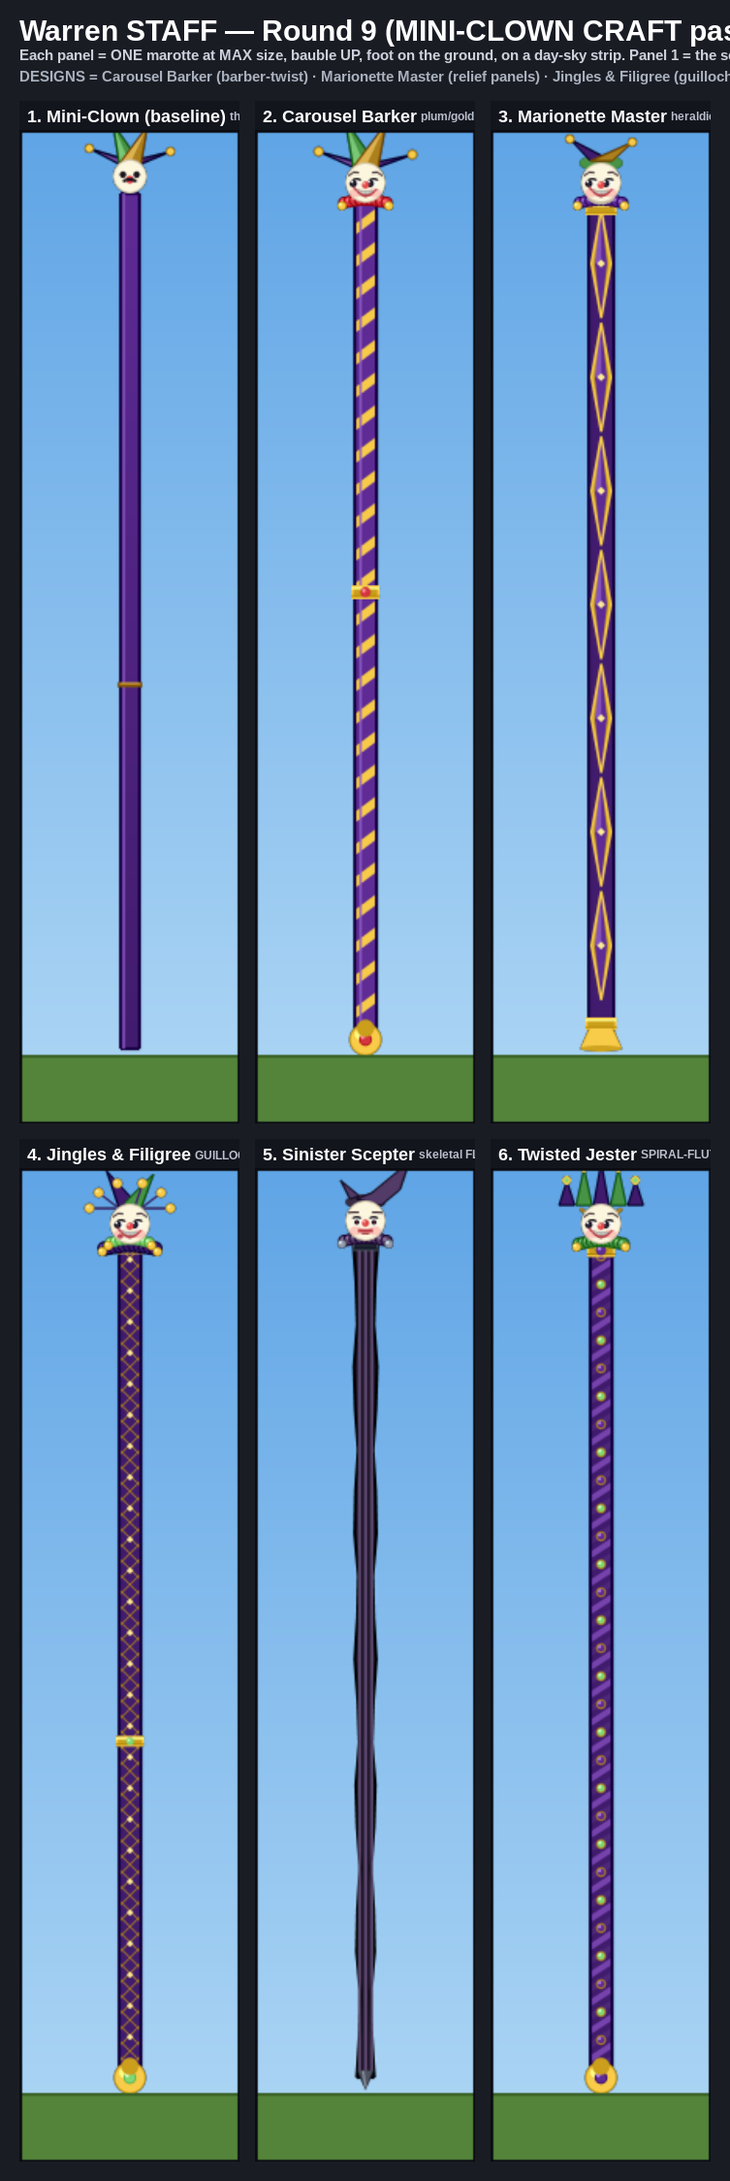
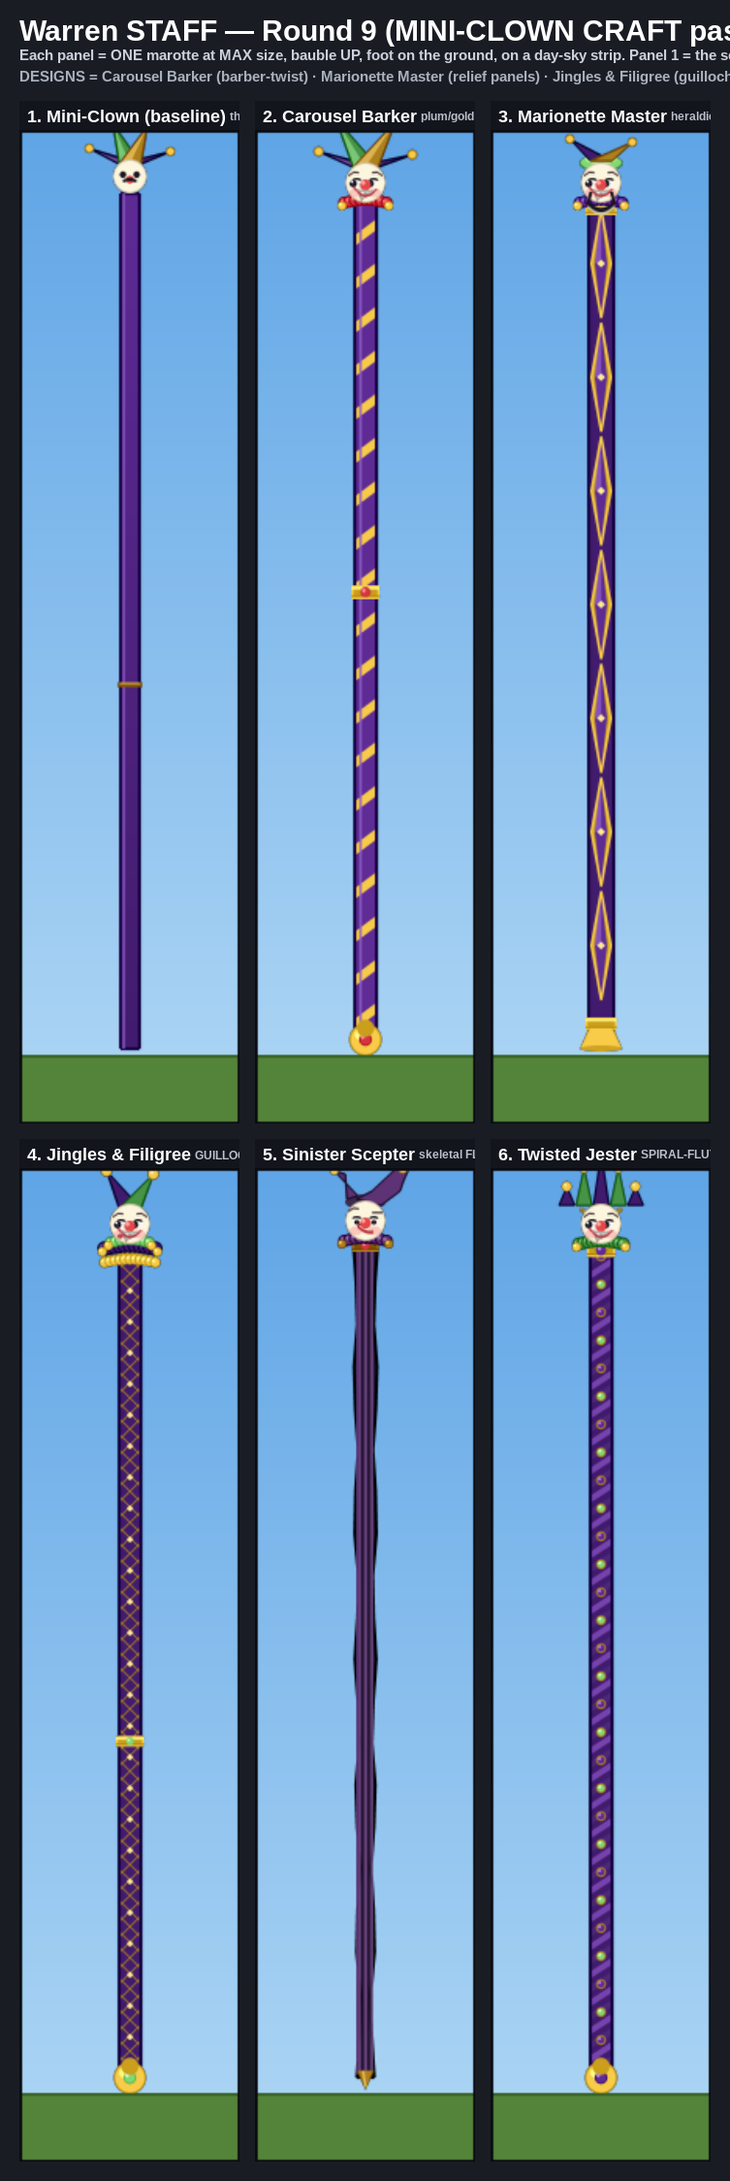
Warren marotte craft pass r2: harden mini-clown faces, fix Sinister + bell spray
Round-2 revisions to the 5 mini-clown staffs (prop_14f-14j) per art-director
critique. Coronet reads as an arc (Twisted Jester lead); nose bumped + fang
re-seated with a dark throat wedge so the clown face survives the ~30px route
shrink; Marionette gets a real second jaw-line + brighter lime crown; Carousel
cap splayed off the forehead; Jingles drops the fuzzy radiating bell halo for a
belled ruff fringe; Sinister re-spec'd onto plum/gold (was off-palette iron)
with a lifted shaft, candy-red collar pop, smirk face, and a legible horned
hood. All 6 bodies stay under the <140 luma gate; tests green.

diff --git a/tools/render_warren_sword.py b/tools/render_warren_sword.py
@@ -2071,7 +2071,11 @@ def _mini_clown_face(surf, cx, hy, hr, ss, *, expr="grin", look=None):
                           int(hy + hr * 0.28)))
     ex = hr * 0.42                         # eye spacing
     ew, eh = 2.0 * u, 2.5 * u              # tall round OPEN eye (alive, not hooded)
-    stare = expr == "stare"
+    # "smirk" shares the dead pinprick eyes with "stare" but carries a sly raised
+    # brow + a one-corner-up closed mouth so it reads as a mischievous clown, not an
+    # empty doll. `dead` drives the eye treatment; the mouth branch splits below.
+    smirk = expr == "smirk"
+    stare = expr == "stare" or smirk
     for s in (-1, 1):
         exx = cx + s * ex
         # White sclera — a tall bright open eye.
@@ -2105,21 +2109,56 @@ def _mini_clown_face(surf, cx, hy, hr, ss, *, expr="grin", look=None):
         inner = (exx - s * 1.0 * u * ss, hy - 5.4 * u * ss)
         mid = (exx + s * 1.8 * u * ss, hy - 5.6 * u * ss)
         outer = (exx + s * 4.6 * u * ss, hy - 3.6 * u * ss)
-        if stare:
+        if stare and not smirk:
             # A flatter, lower brow for the blank-stare so the calm reads colder.
             inner = (exx - s * 1.0 * u * ss, hy - 4.6 * u * ss)
             mid = (exx + s * 1.8 * u * ss, hy - 4.6 * u * ss)
             outer = (exx + s * 4.6 * u * ss, hy - 4.4 * u * ss)
+        elif smirk:
+            # ONE sly raised brow (the die-side / LEFT, s == -1) cocks up high; the
+            # other stays flat + low — a single cocked brow over dead eyes is the
+            # whole "knowing menace-glee" tell of the sinister smirk.
+            if s < 0:
+                inner = (exx - s * 1.0 * u * ss, hy - 6.4 * u * ss)
+                mid = (exx + s * 1.8 * u * ss, hy - 6.8 * u * ss)
+                outer = (exx + s * 4.6 * u * ss, hy - 5.0 * u * ss)
+            else:
+                inner = (exx - s * 1.0 * u * ss, hy - 4.4 * u * ss)
+                mid = (exx + s * 1.8 * u * ss, hy - 4.4 * u * ss)
+                outer = (exx + s * 4.6 * u * ss, hy - 4.4 * u * ss)
         pygame.draw.lines(surf, BROW_COL, False,
                           [(int(inner[0]), int(inner[1])), (int(mid[0]), int(mid[1])),
                            (int(outer[0]), int(outer[1]))], max(1, int(1.3 * ss)))
     # Red ball nose, lifted up between the eyes so the grin owns the lower face.
-    nr = max(2, int(1.9 * u * ss))
+    # Bumped up again so the warm dot is the last face cue to survive at 30px, where
+    # the eyes/brows dissolve and only "warm nose over dark smile" reads — the dot
+    # has to win the silhouette fight against the cap clutter above it.
+    nr = max(3, int(3.0 * u * ss))
     pygame.draw.circle(surf, _shade_c(NOSE_RED, -60), (cx, int(hy + 1.4 * u * ss)), nr + 1)
     pygame.draw.circle(surf, NOSE_RED, (cx, int(hy + 1.4 * u * ss)), nr)
     pygame.draw.circle(surf, _shade_c(NOSE_RED, 100),
                        (int(cx - nr * 0.4), int(hy + 1.4 * u * ss - nr * 0.4)),
                        max(1, int(nr * 0.4)))
+    if smirk:
+        # A closed-mouth SMIRK: a smooth lip curve with the die-side (LEFT) corner
+        # cocked UP and the other corner held low — a sliver of menace-glee so the
+        # dead eyes read as a sly clown, not a vacant doll. A short dimple tick seats
+        # the raised corner so the asymmetry survives shrinking.
+        my = hy + 5.0 * u * ss
+        l_up = (cx - 4.2 * u * ss, my - 1.8 * u * ss)
+        r_lo = (cx + 4.2 * u * ss, my + 1.2 * u * ss)
+        smk = []
+        for k in range(11):
+            t = k / 10.0
+            sx = l_up[0] + (r_lo[0] - l_up[0]) * t
+            sy = l_up[1] + (r_lo[1] - l_up[1]) * t + (1.0 - (2.0 * t - 1.0) ** 2) * 1.2 * u * ss
+            smk.append((int(sx), int(sy)))
+        pygame.draw.lines(surf, LIP, False, smk, max(2, int(2.2 * ss)))
+        pygame.draw.line(surf, _shade_c(LIP, -40),
+                         (int(l_up[0]), int(l_up[1])),
+                         (int(l_up[0] + 1.2 * u * ss), int(l_up[1] - 1.6 * u * ss)),
+                         max(1, int(1.4 * ss)))
+        return
     if stare:
         # A small flat closed line-mouth for the unsettling calm — no toothy grin.
         my = hy + 5.4 * u * ss
@@ -2140,7 +2179,10 @@ def _mini_clown_face(surf, cx, hy, hr, ss, *, expr="grin", look=None):
              (cx + 2.3 * u * ss, my + 0.5 * u * ss), r_corner,
              (cx + 2.7 * u * ss, my + 1.8 * u * ss), bottom,
              (cx - 2.7 * u * ss, my + 1.8 * u * ss)]
-    pygame.draw.polygon(surf, MOUTH_THROAT, [(int(p[0]), int(p[1])) for p in mouth])
+    # Throat darkened one step so the open grin reads as a solid dark smile-band
+    # at route scale (the "dark smile under a warm dot" cue) once the teeth blur.
+    pygame.draw.polygon(surf, _shade_c(MOUTH_THROAT, -34),
+                        [(int(p[0]), int(p[1])) for p in mouth])
     # Bright tooth band across the top of the open grin + tooth separators.
     teeth = [l_corner, (cx - 2.3 * u * ss, my), (cx + 2.3 * u * ss, my), r_corner,
              (cx + 2.3 * u * ss, my + 1.4 * u * ss), (cx - 2.3 * u * ss, my + 1.4 * u * ss)]
@@ -2151,12 +2193,20 @@ def _mini_clown_face(surf, cx, hy, hr, ss, *, expr="grin", look=None):
         gx = cx + k * 1.9 * u * ss
         pygame.draw.line(surf, _shade_c(TEETH, -70), (int(gx), int(my)),
                          (int(gx), int(my + 1.4 * u * ss)), max(1, int(ss)))
-    # One pointed FANG dropping below the tooth row on the die-side (LEFT).
-    fang = [(cx - 2.3 * u * ss, my + 1.4 * u * ss), (cx - 0.4 * u * ss, my + 1.4 * u * ss),
-            (cx - 1.4 * u * ss, my + 3.2 * u * ss)]
+    # One pointed FANG dropping below the tooth row on the die-side (LEFT). It is the
+    # MVP of the "mean" read and the FIRST thing to vanish when shrunk, so it is now
+    # seated HIGH into the tooth band (base up at the tooth-band top) with a wider
+    # base and a longer drop — a fat triangular spike that reads as a single dark-
+    # rimmed tusk even after the tooth separators blur. Drawn against the dark throat
+    # FIRST as a fat throat wedge so the fang silhouette persists, then the bright
+    # tooth fang over it with a heavy keyline.
+    fang = [(cx - 3.4 * u * ss, my), (cx + 0.2 * u * ss, my),
+            (cx - 1.6 * u * ss, my + 4.8 * u * ss)]
+    pygame.draw.polygon(surf, _shade_c(MOUTH_THROAT, -34),
+                        [(int(p[0] - 0.5 * u * ss), int(p[1] + 0.6 * u * ss)) for p in fang])
     pygame.draw.polygon(surf, TEETH, [(int(p[0]), int(p[1])) for p in fang])
     pygame.draw.polygon(surf, _shade_c(TEETH, -70),
-                        [(int(p[0]), int(p[1])) for p in fang], max(1, int(ss)))
+                        [(int(p[0]), int(p[1])) for p in fang], max(2, int(1.6 * ss)))
     # The lip line wrapping the grin — a single smooth up-curving crescent.
     lip = []
     for k in range(13):
@@ -2176,16 +2226,28 @@ def _mini_clown_face(surf, cx, hy, hr, ss, *, expr="grin", look=None):
         pygame.draw.ellipse(surf, _shade_c(TONGUE, -60), tr, max(1, int(ss)))
 
 
-def _marotte_ruff(surf, cx, ny, r, ss, col, *, lobes=9, bell_col=GOLD):
+def _marotte_ruff(surf, cx, ny, r, ss, col, *, lobes=9, bell_col=GOLD, fringe=None):
     """A scalloped ruff under the bauble (the clown's neck collar), ported into
     ss space: a row of overlapping lit lobes ringing the neck with a small bell
     dangling at each outer edge, so the mini-clown reads as a costumed head, not
-    a bare ball. Drawn dark-cored so it holds value on the day sky."""
+    a bare ball. Drawn dark-cored so it holds value on the day sky. `fringe` (a
+    gold) hangs a fat bell off the bottom of each lobe — the jingle density moved
+    to the collar so it can't blur the head silhouette into a halo."""
     for i in range(lobes):
         t = i / (lobes - 1)
         lx = cx - r + 2 * r * t
         ly = ny + 2.0 * ss + math.sin(t * math.pi) * -2.0 * ss
         rad = max(3, int(r * 0.30))
+        if fringe is not None:
+            # A short thread + fat bell hanging off the lobe's lower edge — a tidy
+            # belled fringe along the collar reads as "jingles" at any scale.
+            by = ly + rad + int(4 * ss)
+            pygame.draw.line(surf, _shade_c(fringe, -60), (int(lx), int(ly + rad)),
+                             (int(lx), int(by)), max(2, int(2.0 * ss)))
+            pygame.draw.circle(surf, _shade_c(fringe, -55), (int(lx), int(by)), max(3, int(3.6 * ss)))
+            pygame.draw.circle(surf, fringe, (int(lx), int(by)), max(2, int(2.8 * ss)))
+            pygame.draw.circle(surf, _shade_c(fringe, 80),
+                               (int(lx - ss), int(by - ss)), max(1, int(1.2 * ss)))
         pygame.draw.circle(surf, _shade_c(col, -55), (int(lx), int(ly)), rad)
         pygame.draw.circle(surf, col, (int(lx), int(ly)), max(2, rad - int(ss)))
         pygame.draw.circle(surf, _shade_c(col, 55),
@@ -2231,11 +2293,12 @@ def _shaft_twist(surf, cx, top_y, bot_y, hw, ss, col_a, col_b, lo):
     clip = pygame.Surface(surf.get_size(), pygame.SRCALPHA)
     stripe = max(4, int(7 * ss))
     n = int((bot_y - top_y) / stripe) + 4
-    # A 3-band cycle (plum, plum, gold) so the dark plum dominates the body 2:1
-    # and the gold ribbon stays a bold accent — keeps the route median dark.
+    # A 4-band cycle (plum x3, gold x1) so the dark plum dominates ~3:1 and the gold
+    # ribbon reads as a bold spiral accent — the old 2:1 strobed/flickered at
+    # distance, and the wider plum keeps the route median dark.
     for i in range(-2, n):
         y0 = top_y + i * stripe
-        c = col_b if i % 3 == 2 else col_a
+        c = col_b if i % 4 == 3 else col_a
         quad = [(cx - hw, y0), (cx + hw, y0 - hw * 1.5),
                 (cx + hw, y0 - hw * 1.5 + stripe), (cx - hw, y0 + stripe)]
         pygame.draw.polygon(clip, c, [(int(p[0]), int(p[1])) for p in quad])
@@ -2461,9 +2524,12 @@ def prop_14f(surf, bw, bh, ss):
     _pommel_finial(surf, cx, bh - int(4 * ss), hwid, ss, GOLD, kind="ball", gem=CANDY_RED)
     # The clown's own four-point splayed cap (mirrors cap_four_point): two outer
     # points flop far out + low, two inner points lean apart, each bell-tipped.
+    # Inner points splayed further apart (±19) and lifted so the cap clears the
+    # forehead and stops shadowing the eyes; the two outer points still flop far
+    # out + low.
     base_y = hy - hr + int(1 * ss)
     for (dx, dy, col) in [(-30, -8, PLUM_DK), (30, -6, PLUM_DK),
-                          (-13, -28, LIME_DK), (13, -26, GOLD_DK)]:
+                          (-19, -29, LIME_DK), (19, -27, GOLD_DK)]:
         bxp, byp = cx + int(dx * ss), base_y + int(dy * ss)
         span = int(8 * ss)
         tri = [(cx - span, base_y + int(2 * ss)), (cx + span, base_y + int(2 * ss)), (bxp, byp)]
@@ -2493,11 +2559,17 @@ def prop_14g(surf, bw, bh, ss):
     _ferrule(surf, cx, bh - int(20 * ss), hwid, ss, GOLD, h=8)
     _pommel_finial(surf, cx, bh - int(4 * ss), hwid, ss, GOLD, kind="bell")
     # A close lime hood-cap with two forward-leaning bell points (heraldic, tidy).
+    # Crown lifted one step to LIME so it reads as lime, not olive, where it meets
+    # the dark plum point above it.
     base_y = hy - hr + int(1 * ss)
-    pygame.draw.ellipse(surf, _shade_c(LIME_DK, -10),
-                        (int(cx - hr - ss), int(base_y - 6 * ss), int(hr * 2 + 2 * ss), int(11 * ss)))
     pygame.draw.ellipse(surf, LIME_DK,
+                        (int(cx - hr - ss), int(base_y - 6 * ss), int(hr * 2 + 2 * ss), int(11 * ss)))
+    pygame.draw.ellipse(surf, LIME,
                         (int(cx - hr), int(base_y - 6 * ss), int(hr * 2), int(10 * ss)))
+    # A brighter lit crown band across the cap top so it reads clearly as LIME (not
+    # an olive smudge where LIME_DK met the dark plum point) once shrunk.
+    pygame.draw.ellipse(surf, _shade_c(LIME, 45),
+                        (int(cx - hr * 0.78), int(base_y - 6 * ss), int(hr * 1.56), int(6 * ss)))
     for (dx, dy, col) in [(-20, -16, PLUM_DK), (20, -14, GOLD_DK)]:
         bxp, byp = cx + int(dx * ss), base_y + int(dy * ss)
         span = int(7 * ss)
@@ -2508,11 +2580,26 @@ def prop_14g(surf, bw, bh, ss):
         pygame.draw.circle(surf, GOLD_DK, (int(bxp), int(byp)), max(2, int(3.2 * ss)), max(1, int(ss)))
     _marotte_ruff(surf, cx, hy + hr - int(2 * ss), int(hr * 1.05), ss, PLUM, lobes=9, bell_col=GOLD)
     _mini_clown_face(surf, cx, hy, hr, ss, expr="grin")
-    # The marionette signature: a hinged-jaw line under the grin so the head reads
-    # like a segmented puppet jaw that could clack open.
-    pygame.draw.arc(surf, _shade_c(CREAM, -60),
-                    (int(cx - hr * 0.7), int(hy + hr * 0.3), int(hr * 1.4), int(hr * 0.8)),
-                    math.pi * 1.1, math.tau * 0.95, max(1, int(1.4 * ss)))
+    # The marionette signature: a REAL second jaw-line well below the grin so the
+    # head reads as a segmented puppet jaw that could clack open. Drawn as a deep
+    # INK-dark, fat crescent set a clear gap below the lip — a soft shadow band under
+    # it gives the lower jaw volume so the split survives shrinking instead of
+    # reading as one faint scratch.
+    jy = hy + int(hr * 1.00)
+    jaw, jaw_lo = [], []
+    for k in range(11):
+        t = k / 10.0
+        jx = cx - hr * 0.66 + hr * 1.32 * t
+        dip = (1.0 - (2.0 * t - 1.0) ** 2) * hr * 0.36
+        jaw.append((int(jx), int(jy + dip)))
+        jaw_lo.append((int(jx), int(jy + dip + 2.0 * ss)))
+    pygame.draw.lines(surf, _shade_c(CREAM, -50), False, jaw_lo, max(2, int(2.4 * ss)))
+    pygame.draw.lines(surf, INK, False, jaw, max(3, int(2.8 * ss)))
+    # Two short hinge ticks at the jaw corners reinforce the clack-open puppet read.
+    for s in (-1, 1):
+        hx = cx + s * int(hr * 0.66)
+        pygame.draw.line(surf, INK, (hx, int(jy + hr * 0.06)),
+                         (int(hx - s * 2 * ss), int(hy + hr * 0.46)), max(2, int(2.0 * ss)))
 
 
 # ---- 14h. Jingles & Filigree ------------------------------------------------
@@ -2538,17 +2625,21 @@ def prop_14h(surf, bw, bh, ss):
         tri = [(cx - span, base_y + int(2 * ss)), (cx + span, base_y + int(2 * ss)), (bxp, byp)]
         pygame.draw.polygon(surf, col, tri)
         pygame.draw.polygon(surf, _shade_c(col, -60), tri, max(1, int(1.4 * ss)))
-    # The dangling bell spray — short dark threads, each ending in a lit gold bell.
-    for (ax, ay) in [(-26, 2), (-20, -8), (-8, -14), (8, -14), (20, -8), (26, 2)]:
+    # The radiating crown spray (even 4 bells) collapsed into a fuzzy gold halo that
+    # broke the head silhouette at 30px, so the jingle density is RELOCATED to the
+    # ruff as a fat belled FRINGE (see `bell_fringe` below) — the head stays a clean
+    # round dome and "jingles" now lives at the collar where it can't blur the face.
+    # Just two tight bells sit ON the cap points as the only head-level jingle.
+    for (ax, ay) in [(-15, -22), (15, -20)]:
         ex, ey = cx + int(ax * ss), base_y + int(ay * ss)
-        pygame.draw.line(surf, PLUM_DK, (int(cx + ax * 0.35 * ss), int(base_y + 2 * ss)),
-                         (int(ex), int(ey)), max(1, int(1.4 * ss)))
-        pygame.draw.circle(surf, GOLD_DK, (int(ex), int(ey)), max(2, int(3.4 * ss)))
-        pygame.draw.circle(surf, GOLD, (int(ex), int(ey)), max(2, int(2.8 * ss)))
-        pygame.draw.circle(surf, GOLD_HI, (int(ex - ss), int(ey - ss)), max(1, int(ss)))
+        pygame.draw.circle(surf, GOLD_DK, (int(ex), int(ey)), max(3, int(3.8 * ss)))
+        pygame.draw.circle(surf, GOLD, (int(ex), int(ey)), max(2, int(3.0 * ss)))
+        pygame.draw.circle(surf, GOLD_HI, (int(ex - ss), int(ey - ss)), max(1, int(1.4 * ss)))
     # Layered DOUBLE ruff (a wide outer scallop + a tighter inner one) for the
-    # filigree-rich neck read.
-    _marotte_ruff(surf, cx, hy + hr + int(1 * ss), int(hr * 1.25), ss, PLUM_DK, lobes=11)
+    # filigree-rich neck read; the outer ruff carries the dense belled fringe so the
+    # "jingles" payoff reads at the collar without crowding the head.
+    _marotte_ruff(surf, cx, hy + hr + int(1 * ss), int(hr * 1.25), ss, PLUM_DK,
+                  lobes=11, fringe=GOLD)
     _marotte_ruff(surf, cx, hy + hr - int(3 * ss), int(hr * 0.95), ss, LIME, lobes=9, bell_col=GOLD)
     _mini_clown_face(surf, cx, hy, hr, ss, expr="tongue")
 
@@ -2557,8 +2648,11 @@ def prop_14h(surf, bw, bh, ss):
 # The "MEAN" pole: a SKELETAL fluted near-black shaft pinched into a spine, a
 # blank-stare dead-eyed mini-clown under a drooping single horned hood, an iron
 # ferrule and a downward SPIKE foot. Amusing-but-unsettling.
-SINISTER_LO = (38, 26, 48)
-SINISTER_MD = (84, 60, 104)
+# The sinister body is now on-palette: a deep PLUM_DK shaft (still dark — clears the
+# luma gate) lit on one edge, with GOLD_DK metalwork. "Mean" comes from VALUE +
+# expression, not the old cool blue-grey iron that read cheap and off-palette.
+SINISTER_LO = (44, 24, 58)             # deep plum shaft core (a touch warmer than PLUM_DK)
+SINISTER_MD = (96, 52, 118)            # the lit plum edge / hood face
 
 
 def prop_14i(surf, bw, bh, ss):
@@ -2568,31 +2662,49 @@ def prop_14i(surf, bw, bh, ss):
     shaft_top = hy + hr
     hwid = int(8 * ss)
     _shaft_fluted(surf, cx, shaft_top, bh - int(10 * ss), hwid, ss, SINISTER_MD, SINISTER_LO)
-    _ferrule(surf, cx, shaft_top + int(3 * ss), int(hwid * 0.8), ss, IRON_MD, h=7)
-    _pommel_finial(surf, cx, bh - int(6 * ss), int(hwid * 0.7), ss, IRON_MD, kind="spike")
-    # A single drooping horned hood — one long forward-flopping point + a small
-    # back nub, in cold plum, so the silhouette leans sinister, not jolly.
+    # A visible lit plum rail down one side so the near-black shaft no longer reads
+    # as an indistinct dark stick at route scale — it catches a clear edge of light.
+    pygame.draw.line(surf, SINISTER_MD, (int(cx - hwid * 0.62), int(shaft_top + 4 * ss)),
+                     (int(cx - hwid * 0.62), int(bh - 12 * ss)), max(2, int(2.0 * ss)))
+    # Metalwork re-spec'd to GOLD_DK (on-palette) instead of cool iron. A warm gold
+    # collar with a candy-red cabochon is the one focal POP that pulls the eye to the
+    # face and keeps the dark prop reading as a clown staff at distance.
+    _ferrule(surf, cx, shaft_top + int(3 * ss), int(hwid * 0.85), ss, GOLD_DK, h=8,
+             jewel=CANDY_RED)
+    _pommel_finial(surf, cx, bh - int(6 * ss), int(hwid * 0.7), ss, GOLD_DK, kind="spike")
+    # A single drooping horned hood — one forward point ROUNDED (no longer a sharp
+    # witch-hat spike) + a prominent back HORN-NUB so the "horned hood" cue reads,
+    # in lit plum so the silhouette leans sinister, not jolly.
     base_y = hy - hr + int(1 * ss)
     pygame.draw.ellipse(surf, _shade_c(SINISTER_LO, 20),
                         (int(cx - hr), int(base_y - 5 * ss), int(hr * 2), int(10 * ss)))
+    # The forward point is built with a blunt rounded crook (two near-apex points)
+    # so it reads as a flopped horn, not a pointed hat.
     hood = [(cx - int(6 * ss), base_y - int(2 * ss)),
-            (cx + int(4 * ss), base_y - int(6 * ss)),
-            (cx + int(28 * ss), base_y - int(26 * ss)),
-            (cx + int(22 * ss), base_y - int(8 * ss)),
+            (cx + int(4 * ss), base_y - int(7 * ss)),
+            (cx + int(22 * ss), base_y - int(24 * ss)),
+            (cx + int(27 * ss), base_y - int(20 * ss)),
+            (cx + int(24 * ss), base_y - int(13 * ss)),
+            (cx + int(22 * ss), base_y - int(7 * ss)),
             (cx + int(10 * ss), base_y + int(2 * ss))]
     pygame.draw.polygon(surf, SINISTER_MD, [(int(p[0]), int(p[1])) for p in hood])
     pygame.draw.polygon(surf, _shade_c(SINISTER_LO, -10),
                         [(int(p[0]), int(p[1])) for p in hood], max(1, int(1.4 * ss)))
-    pygame.draw.circle(surf, GOLD_DK, (int(cx + 28 * ss), int(base_y - 26 * ss)), max(2, int(3.2 * ss)))
-    pygame.draw.circle(surf, GOLD, (int(cx + 28 * ss), int(base_y - 26 * ss)), max(2, int(2.6 * ss)))
-    # A short back horn-nub the other way so the hood isn't a lone spike.
-    nub = [(cx - int(4 * ss), base_y - int(4 * ss)), (cx - int(16 * ss), base_y - int(14 * ss)),
-           (cx - int(10 * ss), base_y - int(2 * ss))]
+    # A rounded gold bell knob caps the flopped forward horn.
+    pygame.draw.circle(surf, GOLD_DK, (int(cx + 24 * ss), int(base_y - 22 * ss)), max(3, int(3.6 * ss)))
+    pygame.draw.circle(surf, GOLD, (int(cx + 24 * ss), int(base_y - 22 * ss)), max(2, int(3.0 * ss)))
+    # A MORE PROMINENT back horn-nub (fatter + longer) so the "horned" read is
+    # legible and balances the forward horn instead of looking like one hat-tip.
+    nub = [(cx - int(5 * ss), base_y - int(4 * ss)), (cx - int(20 * ss), base_y - int(20 * ss)),
+           (cx - int(13 * ss), base_y - int(18 * ss)),
+           (cx - int(12 * ss), base_y - int(2 * ss))]
     pygame.draw.polygon(surf, SINISTER_MD, [(int(p[0]), int(p[1])) for p in nub])
     pygame.draw.polygon(surf, _shade_c(SINISTER_LO, -10),
                         [(int(p[0]), int(p[1])) for p in nub], max(1, int(1.4 * ss)))
-    _marotte_ruff(surf, cx, hy + hr - int(2 * ss), int(hr * 1.05), ss, SINISTER_MD, lobes=9, bell_col=IRON_HI)
-    _mini_clown_face(surf, cx, hy, hr, ss, expr="stare")
+    pygame.draw.circle(surf, GOLD_DK, (int(cx - 20 * ss), int(base_y - 20 * ss)), max(2, int(2.8 * ss)))
+    pygame.draw.circle(surf, GOLD, (int(cx - 20 * ss), int(base_y - 20 * ss)), max(2, int(2.2 * ss)))
+    _marotte_ruff(surf, cx, hy + hr - int(2 * ss), int(hr * 1.05), ss, SINISTER_MD, lobes=9, bell_col=GOLD_DK)
+    _mini_clown_face(surf, cx, hy, hr, ss, expr="smirk")
 
 
 # ---- 14j. Twisted Jester ----------------------------------------------------
@@ -2614,17 +2726,23 @@ def prop_14j(surf, bw, bh, ss):
     pygame.draw.arc(surf, GOLD_DK, (int(cx - hr - ss), int(base_y - 4 * ss),
                                     int(hr * 2 + 2 * ss), int(12 * ss)),
                     math.pi, math.tau, max(2, int(3 * ss)))
-    pts = [(-22, -16, PLUM_DK), (-11, -24, LIME_DK), (0, -28, PLUM_DK),
-           (11, -24, LIME_DK), (22, -16, PLUM_DK)]
+    # Staggered heights read the points as a coronet ARC, not a picket fence: the
+    # CENTRE point spikes tallest, the inner pair drop a clear step, the outer pair
+    # drop another step lower — a smooth bell of heights so the eye reads a crowned
+    # arc even after the gold tips blur at route scale.
+    pts = [(-22, -12, PLUM_DK), (-11, -24, LIME_DK), (0, -34, PLUM_DK),
+           (11, -24, LIME_DK), (22, -12, PLUM_DK)]
     for (dx, dy, col) in pts:
         bxp, byp = cx + int(dx * ss), base_y + int(dy * ss)
         span = int(5 * ss)
         tri = [(cx + int(dx * ss) - span, base_y), (cx + int(dx * ss) + span, base_y), (bxp, byp)]
         pygame.draw.polygon(surf, col, tri)
         pygame.draw.polygon(surf, _shade_c(col, -60), tri, max(1, int(1.2 * ss)))
-        tipcol = LIME if col == PLUM_DK else PLUM
-        pygame.draw.circle(surf, GOLD, (int(bxp), int(byp)), max(2, int(3 * ss)))
-        pygame.draw.circle(surf, tipcol, (int(bxp), int(byp)), max(1, int(1.6 * ss)))
+        # A single fat gold tip — the old lime-on-plum / plum-on-lime centre dot
+        # vanished by 30px, so one clean gold bead keeps every point reading.
+        pygame.draw.circle(surf, GOLD_DK, (int(bxp), int(byp)), max(2, int(3.4 * ss)))
+        pygame.draw.circle(surf, GOLD, (int(bxp), int(byp)), max(2, int(2.8 * ss)))
+        pygame.draw.circle(surf, GOLD_HI, (int(bxp - ss), int(byp - ss)), max(1, int(ss)))
     _marotte_ruff(surf, cx, hy + hr - int(2 * ss), int(hr * 1.1), ss, LIME_DK, lobes=11, bell_col=GOLD)
     _mini_clown_face(surf, cx, hy, hr, ss, expr="grin")
 
